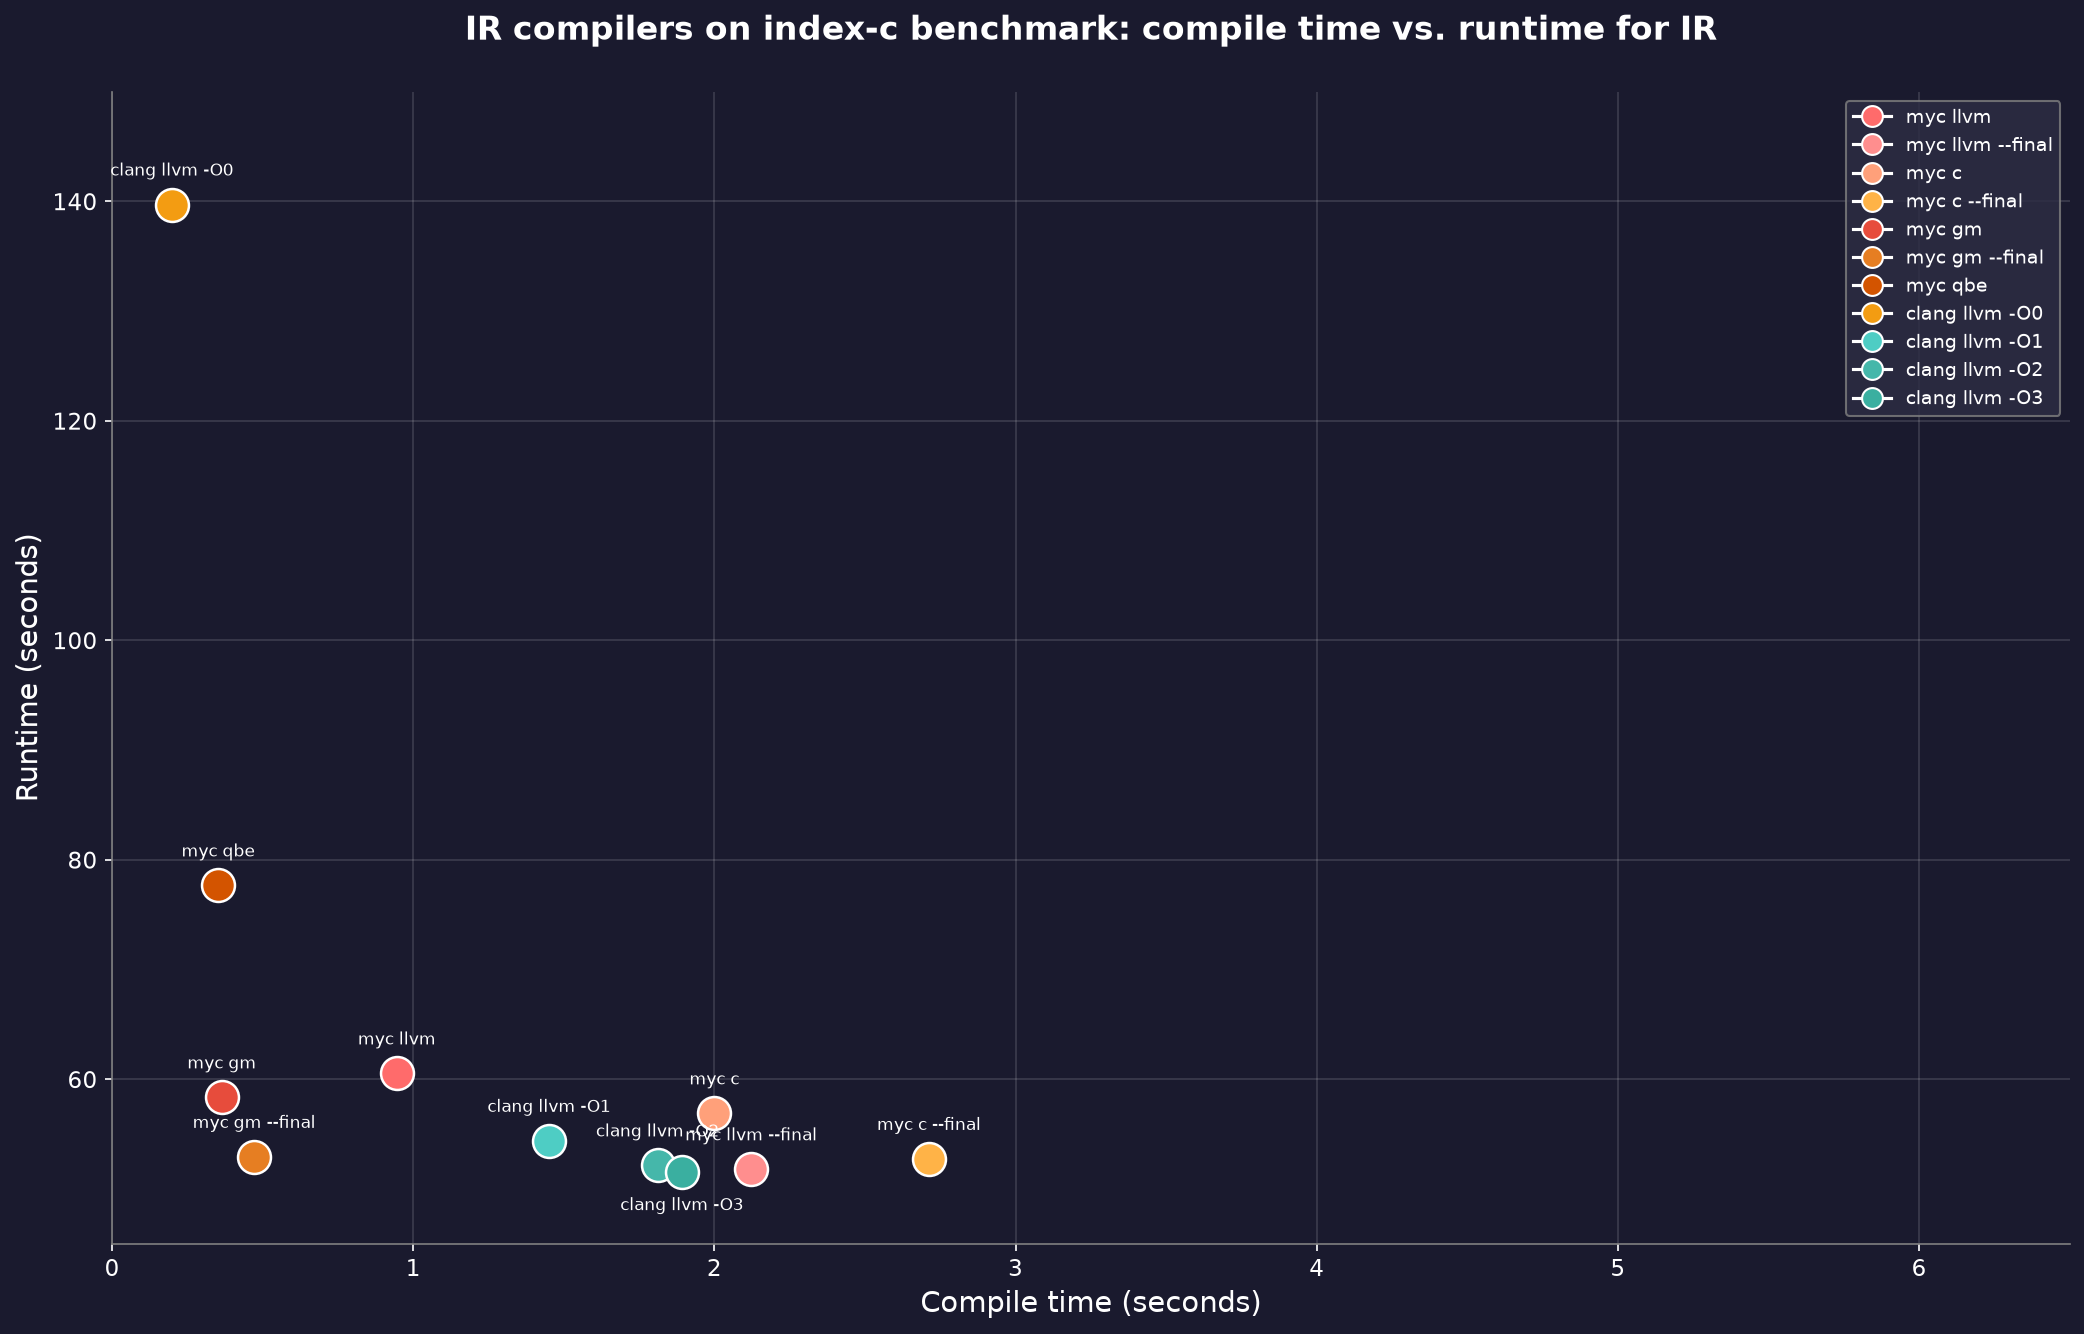
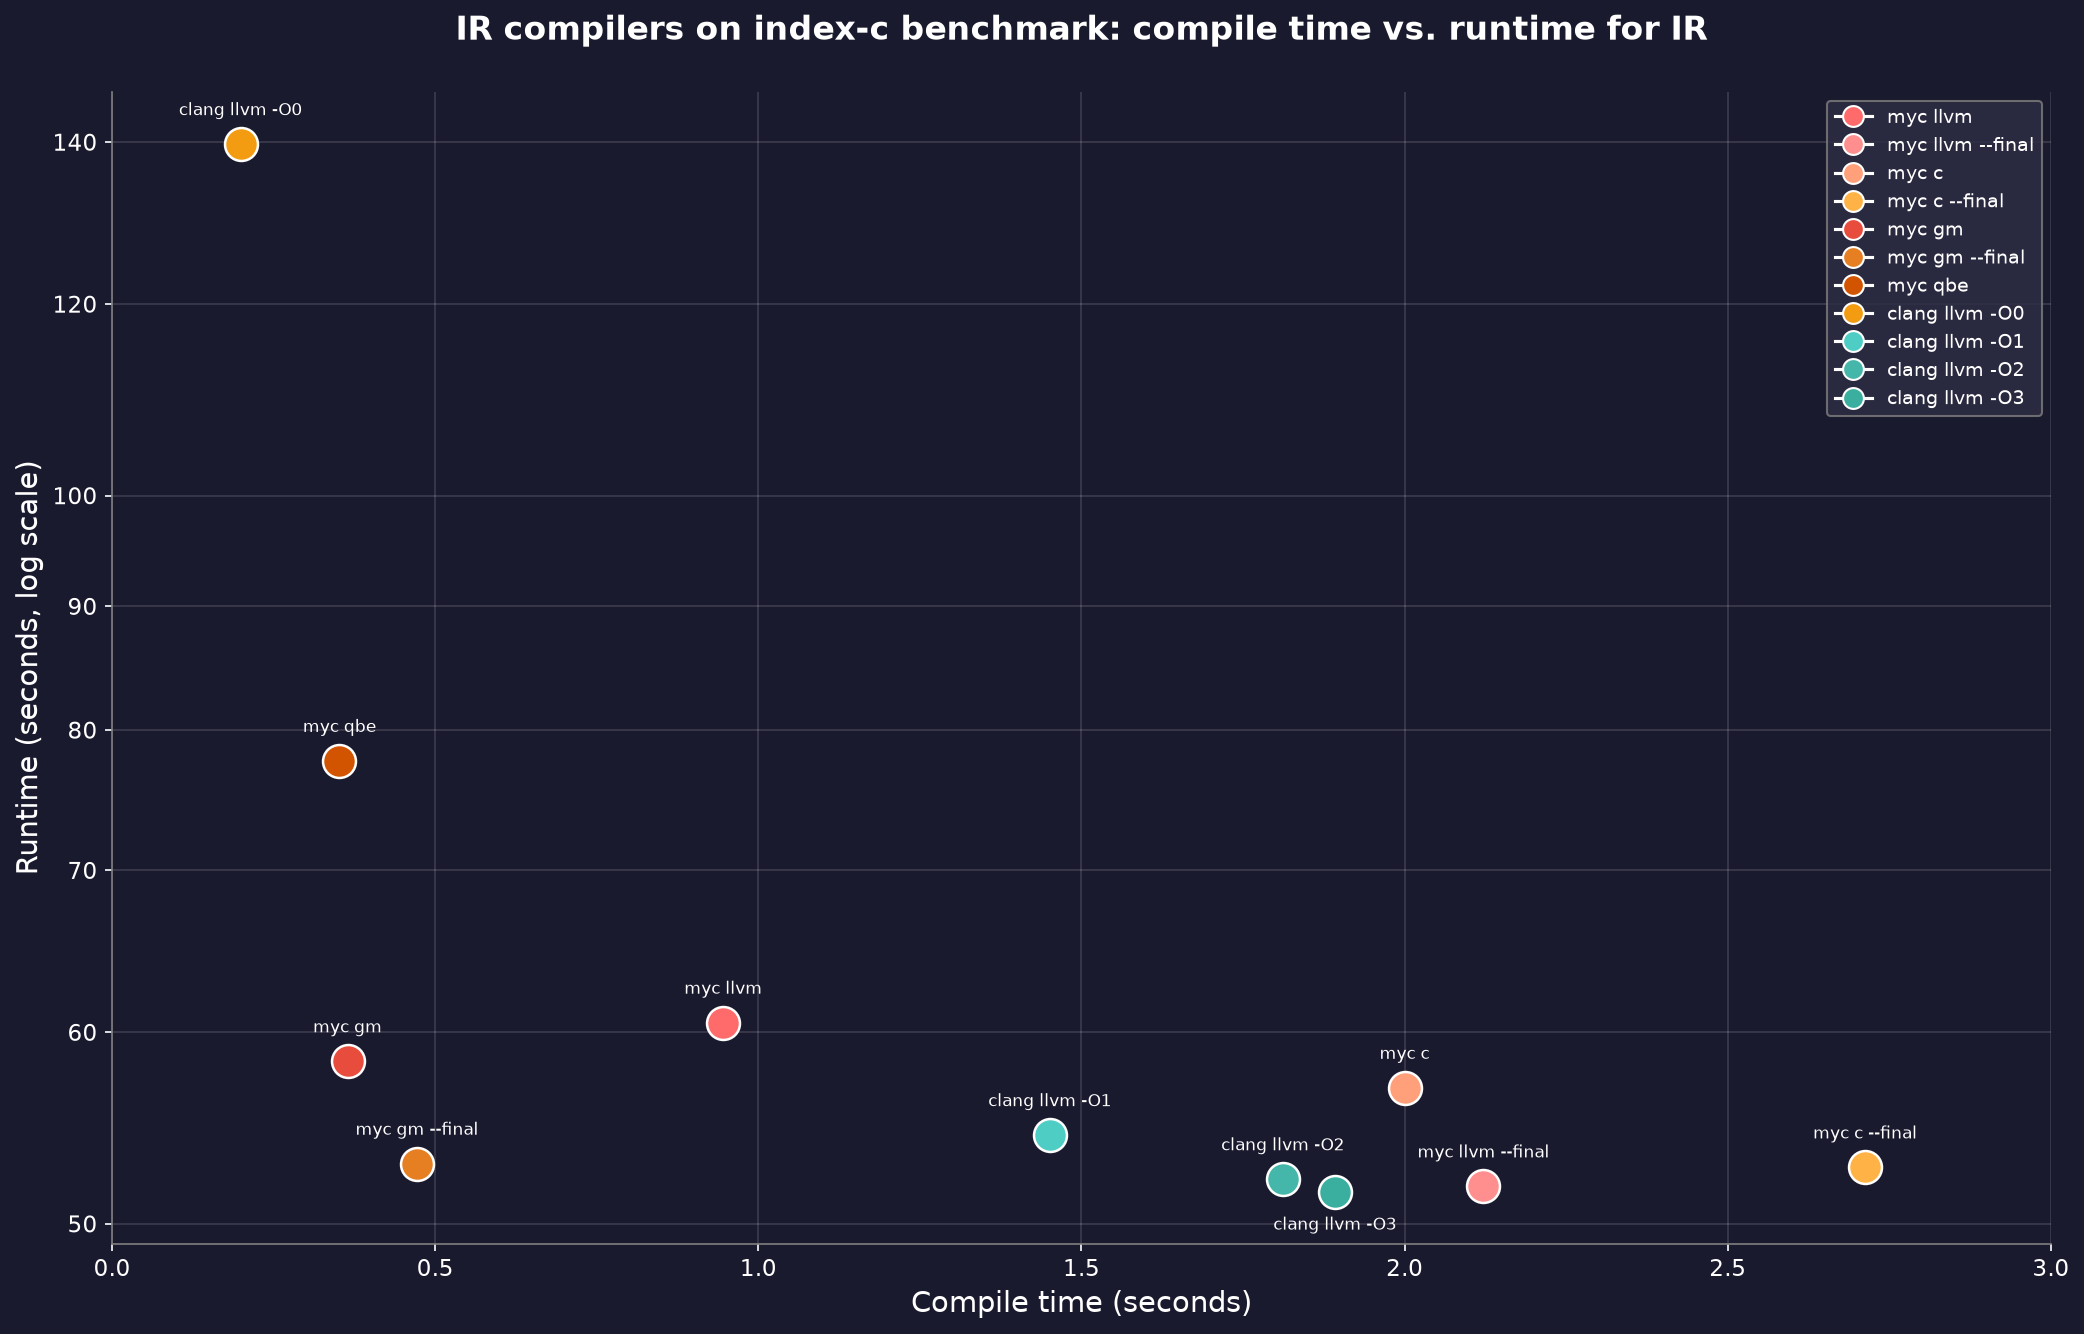
update images

diff --git a/plot2.py b/plot2.py
@@ -1,4 +1,5 @@
 import matplotlib.pyplot as plt
+import matplotlib.ticker as mticker
 from matplotlib.lines import Line2D
 
 markdown = """
@@ -59,8 +60,17 @@ labels = [name for name, _, _ in data]
 for i, (x, y) in enumerate(zip(x_coords, y_coords)):
     ax.scatter(x, y, c=colors[i], s=250, edgecolors='white', linewidth=1.2, zorder=5)
 
-ax.set_xlim(0, 6.5)
-ax.set_ylim(45, 150)
+# Логарифмическая шкала по Y
+ax.set_yscale('log')
+
+# Обычные числа на оси Y вместо степеней 10^n
+ax.yaxis.set_major_formatter(mticker.FuncFormatter(lambda v, _: f'{v:g}'))
+ax.yaxis.set_minor_formatter(mticker.NullFormatter())
+
+# Явные «круглые» метки по Y (подобраны под этот датасет)
+ax.yaxis.set_major_locator(mticker.FixedLocator([50, 60, 70, 80, 90, 100, 120, 140]))
+
+ax.set_xlim(0, 3)
 
 for x, y, label in zip(x_coords, y_coords, labels):
     if label == 'clang llvm -O3':
@@ -77,13 +87,13 @@ for x, y, label in zip(x_coords, y_coords, labels):
     )
 
 ax.set_xlabel('Compile time (seconds)', color='white', fontsize=14)
-ax.set_ylabel('Runtime (seconds)', color='white', fontsize=14)
+ax.set_ylabel('Runtime (seconds, log scale)', color='white', fontsize=14)
 ax.tick_params(colors='white', labelsize=11)
 ax.spines['bottom'].set_color('gray')
 ax.spines['left'].set_color('gray')
 ax.spines['top'].set_visible(False)
 ax.spines['right'].set_visible(False)
-ax.grid(True, alpha=0.15, color='white')
+ax.grid(True, alpha=0.15, color='white', which='major')
 
 legend_elements = []
 for i, (name, _, _) in enumerate(data):

diff --git a/plot1.py b/plot1.py
@@ -1,4 +1,5 @@
 import matplotlib.pyplot as plt
+import matplotlib.ticker as mticker
 from matplotlib.lines import Line2D
 
 markdown = """
@@ -64,8 +65,17 @@ labels = [name for name, _, _ in data]
 for i, (x, y) in enumerate(zip(x_coords, y_coords)):
     ax.scatter(x, y, c=colors[i], s=250, edgecolors='white', linewidth=1.2, zorder=5)
 
-ax.set_xlim(0, 6.5)
-ax.set_ylim(45, 150)
+# Логарифмическая шкала по Y
+ax.set_yscale('log')
+
+# Обычные числа на оси Y вместо степеней 10^n
+ax.yaxis.set_major_formatter(mticker.FuncFormatter(lambda v, _: f'{v:g}'))
+ax.yaxis.set_minor_formatter(mticker.NullFormatter())
+
+# Явные «круглые» метки по Y
+ax.yaxis.set_major_locator(mticker.FixedLocator([50, 60, 70, 80, 90, 100, 120, 140]))
+
+ax.set_xlim(0, 5)
 
 for x, y, label in zip(x_coords, y_coords, labels):
     if label == 'clang llvm -O3':
@@ -82,13 +92,13 @@ for x, y, label in zip(x_coords, y_coords, labels):
     )
 
 ax.set_xlabel('Compile time (seconds)', color='white', fontsize=14)
-ax.set_ylabel('Runtime (seconds)', color='white', fontsize=14)
+ax.set_ylabel('Runtime (seconds, log scale)', color='white', fontsize=14)
 ax.tick_params(colors='white', labelsize=11)
 ax.spines['bottom'].set_color('gray')
 ax.spines['left'].set_color('gray')
 ax.spines['top'].set_visible(False)
 ax.spines['right'].set_visible(False)
-ax.grid(True, alpha=0.15, color='white')
+ax.grid(True, alpha=0.15, color='white', which='major')
 
 legend_elements = []
 for i, (name, _, _) in enumerate(data):
